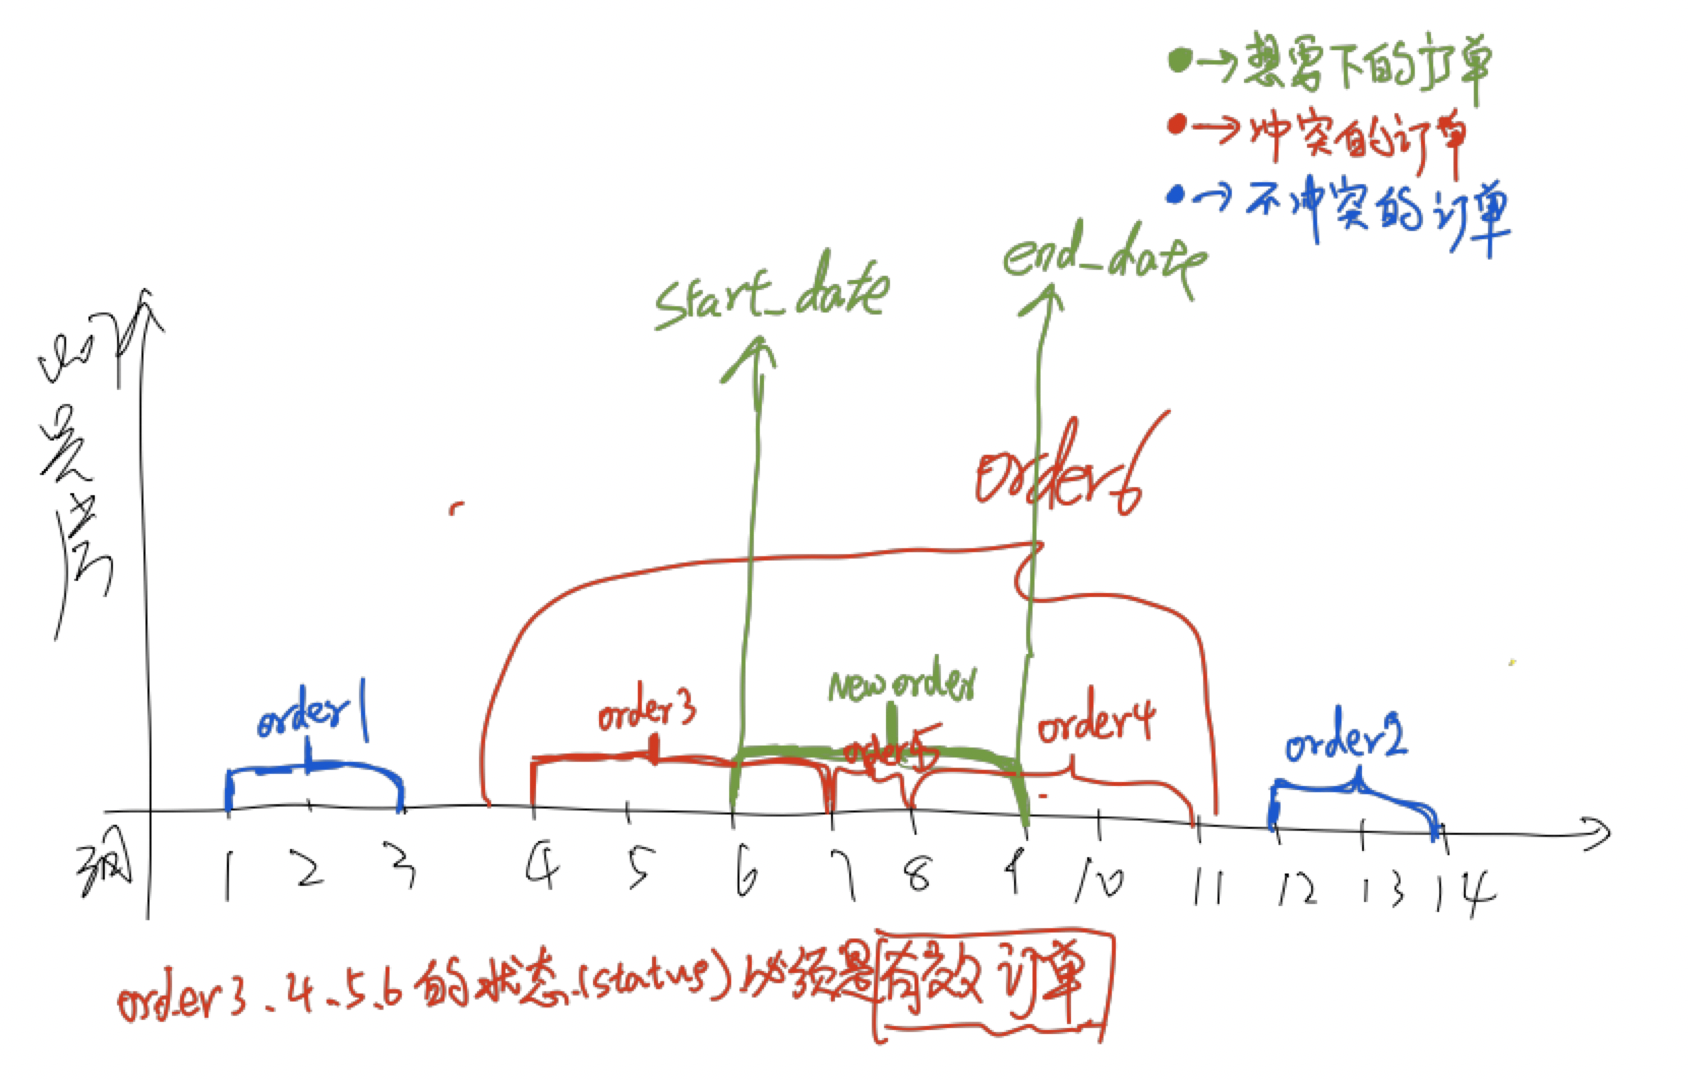
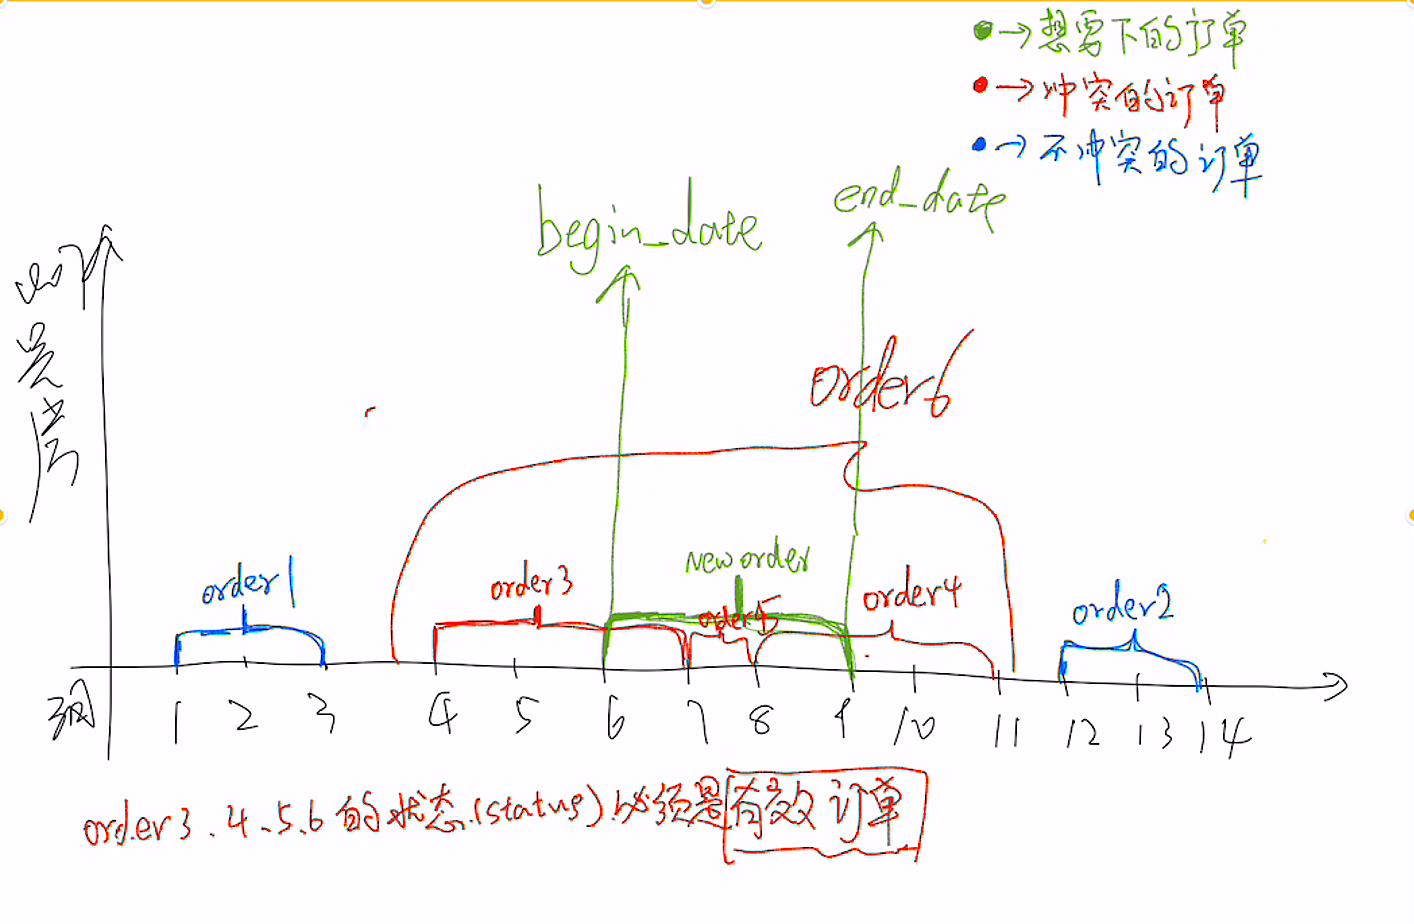
fix image

diff --git a/10-HMHomeProjectTraining/DF1-addOrder.md b/10-HMHomeProjectTraining/DF1-addOrder.md
@@ -2,7 +2,9 @@
 
 ----
 
-- 难点:如何保证不会添加出 对同一个房间 存在 住房时间冲突 的订单? 即假如想在我想入住 007号房 ,想要入住时间是 3月10日–3月20日 ,那么如果已经存在对这个 007号房的有效订单与我的想要入住的时间有重叠,那么后台就不能让房客成功下这个订单, 防止出现一房同时被两个人租用的乌龙情况
+- 难点:如何保证不会添加出 对同一个房间 存在 住房时间冲突 的订单? 即假如想在我想入住 007号房 ,想要入住时间是 3月10日–3月20日 ,那么如果已经存在对这个 007号房的有效订单与我的想要入住的时间有重叠,那么后台就不能让房客成功下这个订单, 防止出现一房同时被两个人租用的乌龙情况.
+
+  - ⚠注意一 :  默认开始时间为开始日期的当天14点整, 结束时间为结束日期当天12点整
 
 - 分析:
 
@@ -14,9 +16,55 @@
 
   - ##### 4.订单时间冲突图像分析
 
-    ![image-20190320174804344](https://github.com/kerbalwzy/DailyEssay/blob/master/media/HMHome/image-20190320174804344.png)
+    ![image-20190322101038331](/Users/wzy/Documents/PythonCode/aboutPython/media/HMHome/image-20190320174804344.png)
+
+    - 思路一: 直接找冲突订单有哪些情况,从上图可以分析出,如果是冲突订单有以下三种(or)情况:
+
+      - 1.冲突订单的结束时间在我想要预定的时间范围内
+
+      - 2.冲突订单的开始时间在我想要预定的时间范围内
+
+      - 3.冲突订单的开始时间到结束时间完全包裹或者等于我想要预定的时间
+
+      - 以上三种情况的ORM的查询条件代码如下:
+
+        ```python
+        or_(
+            # 对应图中的order3与分析情况1
+        	and_(Order.end_date > begin_date, Order.end_date <= end_date),
+            # 对应图中的order4与分析情况2
+            and_(Order.begin_date >= begin_date, Order.begin_date < end_date),
+            # 图中的order5已经被分析情况1,2所包含
+            # 对应图中的order6与分析情况3 
+            and_(Order.begin_date <= begin_date, Order.end_date >= end_date)
+            # 是否需要添加“=”号,请仔细思考“⚠注意一”
+        )
+        ```
+
+    - 思路二: 找不冲突的订单有哪些情况,然后取反获取到冲突的订单.不冲突的情况有以下两种(or)情况:
+
+      - 1.不冲突的订单的结束时间一定在我想要预定的开始时间之前
+
+      - 2.不冲突的订单的开始时间一定在我想要预定的结束时间之后
+
+      - 加入取反操作后的以上两种情况的ORM的查询条件如下:
+
+        ```python
+        not_(
+            # 情况1,2之间的关系为or, 是否需要添加“=”号,请仔细思考“⚠注意一”
+        	or_(Order.end_date < begin_date, Order.begin_date > end_date)
+        )
+        ```
 
 - 代码:
+
+  - 使用`assert`断言取代if判断,用抛出异常的方式最终用一个`try...except...`来返回我们自定义的验证响应
+  - 将对某些参数的验证步骤特别多的代码(`check_order_date`)抽取成函数,简化主逻辑代码
+  - 将某些需要经常写的,但是可以复用的代码抽取出来(`save_orm_object`)
+    - !1. 一个代码块的代码不要太长
+    - !2.不要写太多的`if`判断
+    - !3.不要写太多的`try...except..`
+    - !4.同样操作的代码不要写很多遍,抽取出来复用!!!
 
 ```python
 from datetime import datetime
@@ -59,7 +107,6 @@ def save_orm_object(ORM_class,**kwargs):
         # 给模型类对象的指定属性赋值
         for key, value in kwargs.items():
         	setattr(orm_ob, key, value) 
-        # 将数据保存到数据库 
         db.session.add(orm_ob)
         db.session.commit()
     except Exception as e:
@@ -88,7 +135,7 @@ def add_order():
         assert all([house_id, start_date_str, end_date_str]), Exception("参数错误")
         house_id = int(house_id)
     	# 3.检查入住时间是否合法, 并转换为默认最早入住时间与最晚退房时间, 并获取入住天数统计
-        begin_date, end_date, days = check_order_date(start_date_str, end_date_str)
+        start_date, end_date, days = check_order_date(start_date_str, end_date_str)
     	# 4.检查要租住的房间是否存在
         house = House.query.get(house_id)
         assert house != None, Exception("房间不存在")
@@ -96,27 +143,16 @@ def add_order():
         assert house.user_id != user_id, Exception("不能预定自己的房间")
         # 6.检查改房间是否存在冲突订单
         conflict_order_count = Order.query.filter(
+            # 过滤一: 只找当前房间的订单
             Order.house_id==house_id
         ).filter(
-            or_(
-                and_( # 对应图中的order3
-                	Order.begin_date <= start_date
-                	Order.end_date >= start_date, 
-                ),
-                and_( # 对应图中的order4
-                    Order.begin_date <= end_date,
-                    Order.end_date >= end_date
-                ),
-                and_( # 对应图中的order5
-                    Order.begin_date >= start_date,
-                    Order.end_date <= end_date
-                ),
-                and_( # 对应图中的order6
-                    Order.begin_date <= start_date,
-                    Order.end_date >= end_date
-                )
-            )
+            # 过滤二: 查找冲突的订单
+            # 采用思路二
+            not_(
+				or_(Order.end_date < begin_date, Order.begin_date > end_date)
+			)		
         ).filter(
+            # 过滤三: 避开无效订单
             Order.status.notin_(["CANCELED", "REJECTED"])
         ).count()
         assert conflict_order_count == 0, Exception("房间在该时间段内已经被预定")
